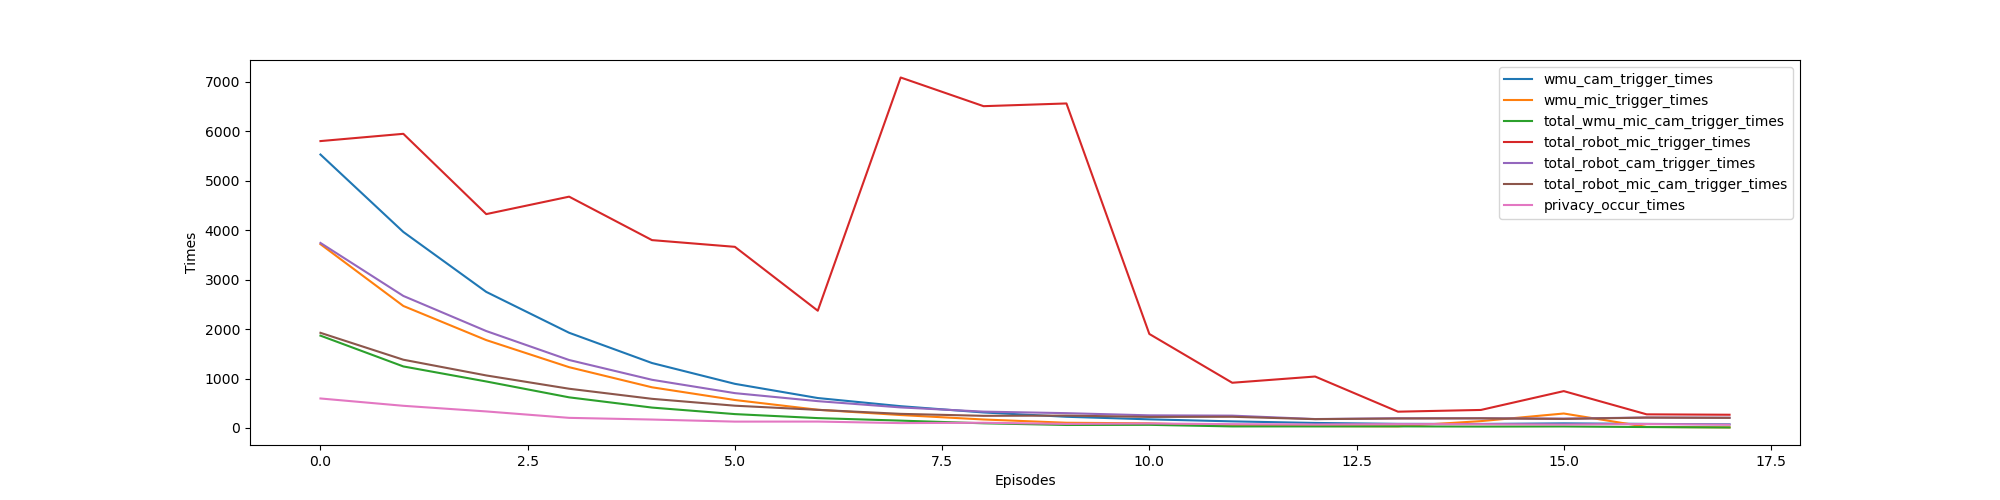
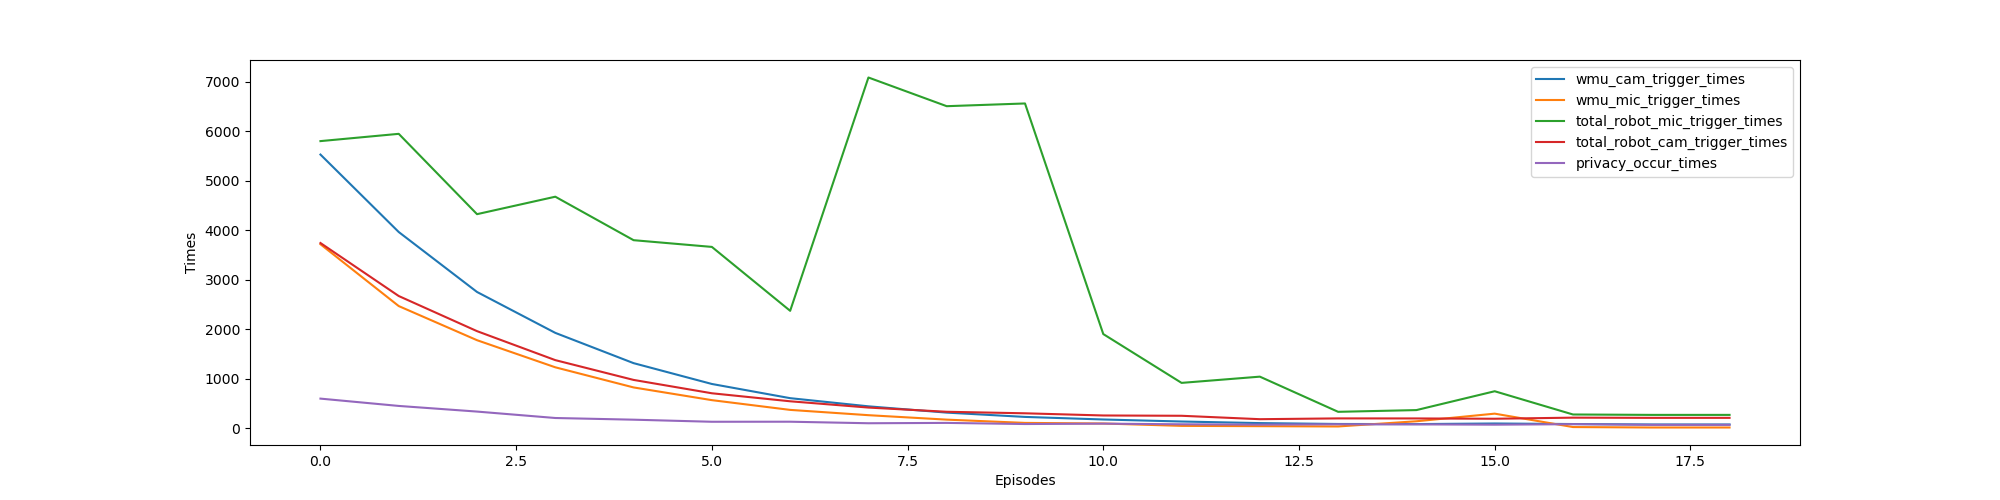
score figues

diff --git a/RL_model/dqn_res_v4/test.py b/RL_model/dqn_res_v4/test.py
@@ -1,0 +1,86 @@
+"""Trains a DQN/DDQN to solve CartPole-v0 problem
+
+
+"""
+#import ground_truth_dict_dataset0819
+
+
+import json
+
+
+import matplotlib.pyplot as plt
+
+
+def plotone(rewards, fig = "test.png", xlabel = "Episodes", ylabel="Rewards"):
+    plt.figure(figsize=(20,5))
+    plt.plot(rewards)
+    plt.xlabel(xlabel)
+    plt.ylabel(ylabel)
+    # plt.legend()
+    plt.savefig(fig)
+
+    #plt.show()
+    plt.clf()
+
+def plot(rewards1, rewards2):
+    plt.figure(figsize=(20,5))
+    plt.plot(rewards1, label='rewards1')
+    plt.plot(rewards2, label='rewards2')
+
+    plt.xlabel("Episode")
+    plt.ylabel("Rewards")
+    plt.legend()
+    plt.savefig('multi_reward.png')
+
+    plt.show()
+    plt.clf()
+
+
+
+
+
+
+
+total_wmu_cam_trigger_times = [5530, 3964, 2752, 1925, 1313, 892, 605, 440, 313, 226, 174, 133, 101, 83, 81, 93, 82, 73, 73]
+
+total_wmu_mic_trigger_times = [3717, 2467, 1777, 1229, 822, 565, 368, 261, 171, 105, 93, 45, 39, 33, 138, 292, 21, 12, 12]
+
+total_wmu_trigger_times = [1867, 1244, 940, 619, 412, 280, 199, 148, 94, 60, 63, 31, 31, 32, 28, 30, 18, 9, 9]
+
+total_robot_mic_trigger_times = [5802, 5949, 4325, 4678, 3799, 3663, 2371, 7088, 6508, 6563, 1901, 914, 1040, 329, 364, 745, 275, 267, 267]
+
+total_robot_cam_trigger_times = [3742, 2670, 1960, 1374, 974, 704, 542, 415, 330, 299, 255, 249, 180, 196, 195, 189, 211, 207, 207]
+total_robot_trigger_times = [1924, 1380, 1062, 793, 589, 450, 366, 285, 245, 250, 223, 226, 178, 191, 194, 182, 209, 204, 204]
+
+total_privacy_times = [596, 448, 334, 204, 170, 128, 129, 98, 105, 82, 90, 77, 70, 77, 75, 69, 79, 66, 66]
+
+
+scores = [-5748.73999999987, -4065.63999999983, -2722.4799999999263, -1818.1599999999328, -1142.4999999999498, -707.2199999999509, -402.4399999999704, -330.63999999996065, -193.74000000003394, -82.56000000000225, 31.760000000000645, 106.89999999999955, 153.62000000000168, 172.58000000000015, 166.64000000000007, -9.459999999999685, 180.91999999999985, 201.3799999999998, 201.3799999999998]
+
+
+print('len(scores):', len(scores))
+plotone(scores, fig = "dqn_accumulated_rewards.png", xlabel = "Episodes", ylabel="Accumulated Rewards")
+
+
+
+print('len(wmu times):', len(total_wmu_cam_trigger_times))
+
+plt.figure(figsize=(20,5))
+plt.plot(total_wmu_cam_trigger_times, label='wmu_cam_trigger_times')
+plt.plot(total_wmu_mic_trigger_times, label='wmu_mic_trigger_times')
+#plt.plot(total_wmu_trigger_times, label='total_wmu_mic_cam_trigger_times')
+plt.plot(total_robot_mic_trigger_times, label='total_robot_mic_trigger_times')
+plt.plot(total_robot_cam_trigger_times, label='total_robot_cam_trigger_times')
+#plt.plot(total_robot_trigger_times, label='total_robot_mic_cam_trigger_times')
+plt.plot(total_privacy_times, label='privacy_occur_times')
+
+plt.xlabel("Episodes")
+plt.ylabel("Times")
+plt.legend()
+plt.savefig('dqn_multi_reward.png')
+
+# plt.show()
+plt.clf()
+
+exit(0)
+
